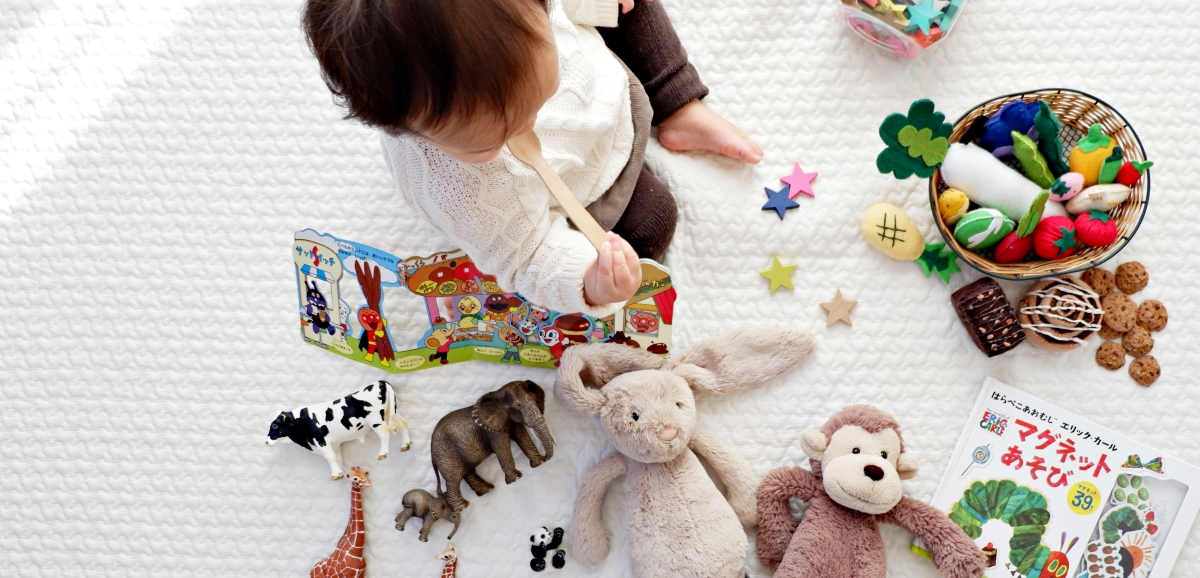
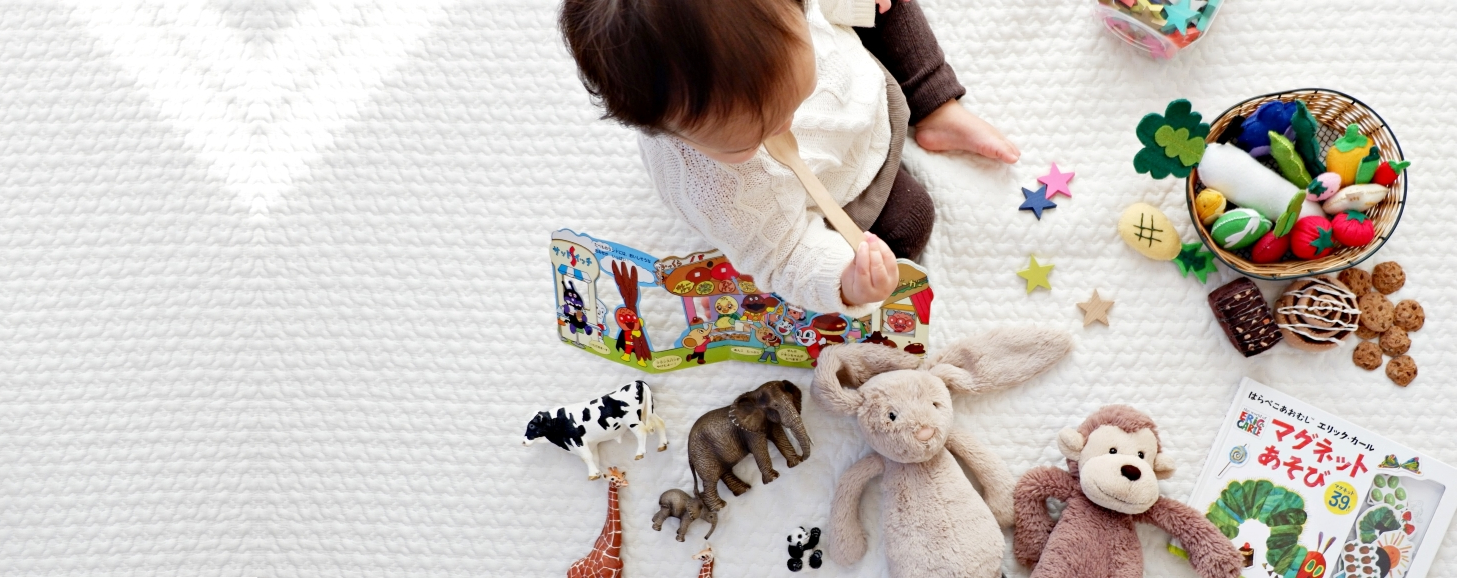
text and registration fixes

diff --git a/src/pages/unauthorized/unauthorized.jsx b/src/pages/unauthorized/unauthorized.jsx
@@ -36,9 +36,9 @@ function Unauthorized({ authState, onStateChange }) {
         </h1>
 
         <img
-          src={require("../../img/bbby-toys-3.jpg")}
+          src={require("../../img/bbby-toys-2.jpg")}
           alt="pair-care welcome"
-          style={{maxWidth: '100%'}}
+          style={{width: '100%'}}
         />
 
         <div className="welcome-content">
@@ -50,6 +50,7 @@ function Unauthorized({ authState, onStateChange }) {
             onClick={() => setRedirect('register')}
             variant="contained"
             color="primary"
+            size="large"
           >
             Create a List
           </Button>
@@ -70,21 +71,21 @@ function Unauthorized({ authState, onStateChange }) {
             <ListAltOutlined fontSize="large" color="secondary" className="icons-highlights" />
             <br />
             <div className="icons-text">Create</div>
-            <p>Create a list of your own recommended items</p>
+            <p className="icons-subtext">Create a list of your own recommended items</p>
           </div>
 
           <div className="col-4">
             <ShareOutlined fontSize="large" color="secondary" className="icons-highlights" />
             <br />
             <div className="icons-text">Share</div>
-            <p>Share your list with other parents</p>
+            <p className="icons-subtext">Share your list with other parents</p>
           </div>
 
           <div className="col-4">
             <BuildOutlined fontSize="large" color="secondary" className="icons-highlights" />
             <br />
             <div className="icons-text">Manage</div>
-            <p>Manage your list as you discover new products</p>
+            <p className="icons-subtext">Manage your list as you discover new products</p>
           </div>
         </div>
 

diff --git a/src/framework/footer/footer.jsx b/src/framework/footer/footer.jsx
@@ -30,27 +30,28 @@ const Footer = () => {
 
   return (
     <div className={classes.footer}>
-      <Link href="mailto:paircarecontact@gmail.com" className="footer-link">Contact Us</Link>
-      <RouterLink to="/faq" className="footer-link">FAQs</RouterLink>
-      <br />
       <div style={{ marginBottom: '10px', marginTop: '10px' }}>
         <Link href="https://www.instagram.com/pair_care/" className="footer-link">
-          <IconButton size="small" color="primary">
-            <Instagram fontSize="small" />
+          <IconButton size="large" color="primary">
+            <Instagram fontSize="large" />
           </IconButton>
         </Link>
 
         <Link href="https://www.pinterest.com/pair_care/" className="footer-link">
-          <IconButton size="small" color="primary">
-            <Pinterest fontSize="small" />
+          <IconButton size="large" color="primary">
+            <Pinterest fontSize="large" />
           </IconButton>
         </Link>
 
         <Link href="https://www.facebook.com/Pair-Care-104798421646164" className="footer-link">
-          <IconButton size="small" color="primary">
-            <Facebook fontSize="small" />
+          <IconButton size="large" color="primary">
+            <Facebook fontSize="large" />
           </IconButton>
         </Link>
+
+        <br />
+        <Link href="mailto:paircarecontact@gmail.com" className="footer-link">Contact Us</Link>
+        <RouterLink to="/faq" className="footer-link">FAQs</RouterLink>
       </div>
 
       <div className="pt-15">

diff --git a/src/pages/unauthorized/unauthorized.css b/src/pages/unauthorized/unauthorized.css
@@ -8,15 +8,15 @@
     padding: 10px;
     margin-left: 10px;
     color: #226d77;
-    max-width: 245px;
+    width: 600px;
+    font-size: 3em;
 }
 
 .welcome-content {
     position: absolute;
-    bottom: 15px;
-    margin-left: 15px;
-    padding: 0 15px;
+    bottom: 35%;
     text-align: center;
+    width: 600px;
 }
 
 .secondary-box {
@@ -40,9 +40,9 @@
 
 .avatar-container {
     display: inline-grid;
-    font-size: 11px;
+    font-size: 14px;
     text-align: center;
-    width: 92px;
+    width: 105px;
     margin-bottom: 30px;
 }
 
@@ -51,11 +51,36 @@
 }
 
 /*responsive design*/
+@media screen and (max-width: 1495px) {
+    .welcome-title {
+        width: 400px;
+    }
+
+    .welcome-content {
+        width: 400px;
+        bottom: 15%;
+    }
+}
+
+@media screen and (max-width: 1300px) {
+    .welcome-title {
+        width: 300px;
+        font-size: 2em;
+    }
+
+    .welcome-content {
+        width: 300px;
+        bottom: 10%;
+    }
+}
+
 @media screen and (max-width: 960px) {
     .welcome-title {
         position: initial;
         text-align: center;
         max-width: 100%;
+        font-size: 2em;
+        width: 100%
     }
 
     .welcome-content {
@@ -64,6 +89,7 @@
         margin-left: 0;
         margin-top: -5px;
         padding: 15px 0;
+        width: 100%;
     }
 
     .avatar-container {

diff --git a/public/index.html b/public/index.html
@@ -10,6 +10,7 @@
       content="Web site created using create-react-app"
     />
     <meta name="google-signin-client_id" content="839098953915-ds3fkvd7mbdnh43tmc420gfsfc6q493n.apps.googleusercontent.com">
+    <meta name="google-site-verification" content="UjgM_mb8RpjUXkZQ0o9mzS4Vws8_BHuh5sCTHa1ZqcM" />
     <link rel="apple-touch-icon" href="%PUBLIC_URL%/logo192.png" />
     <!--
       manifest.json provides metadata used when your web app is installed on a

diff --git a/src/pages/auth/registration/baby-info.jsx b/src/pages/auth/registration/baby-info.jsx
@@ -187,7 +187,7 @@ const BabyInfo = ({ setStep, data, handleDataChange }) => {
 
       <Grid style={{ textAlign: 'center', marginTop: '30px' }}>
         <Button
-          onClick={() => setStep(1)}
+          onClick={() => setStep(2)}
           variant="contained"
           color="primary"
           className="single-submit-btn"

diff --git a/src/pages/auth/registration/personal-info.jsx b/src/pages/auth/registration/personal-info.jsx
@@ -53,7 +53,7 @@ const PersonalInfo = ({ setStep, data, handleDataChange }) => {
       },
       validationData: [] //optional
     })
-      .then(() => setStep(2))
+      .then(() => setStep(3))
       .catch(err => setError(err.message))
   };
 

diff --git a/src/pages/unauth-shared-list/unauth-shared-list.css b/src/pages/unauth-shared-list/unauth-shared-list.css
@@ -20,4 +20,10 @@
 .icons-text {
     color: #dc9577;
     font-weight: 500;
+    font-size: 1.25em;
+}
+
+.icons-subtext {
+    font-weight: 300;
+    font-size: 1.25em;
 }

diff --git a/src/index.css b/src/index.css
@@ -30,6 +30,7 @@ h2 {
   font-family: 'Roboto', sans-serif;
   font-weight: 500;
   color: #226d77;
+  font-size: 2em;
 }
 
 h3 {
